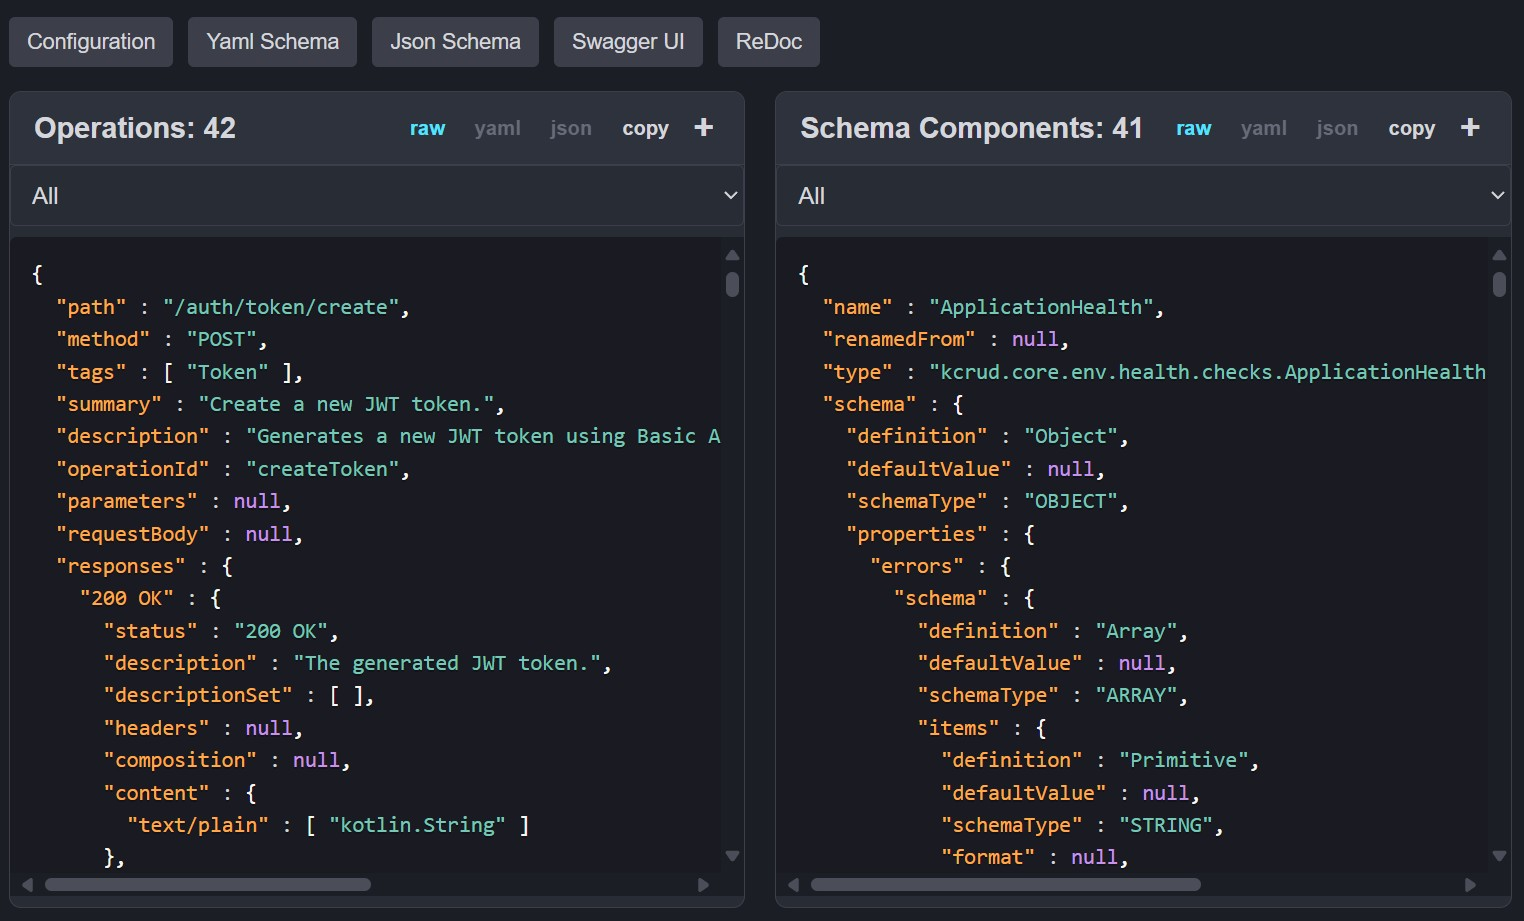
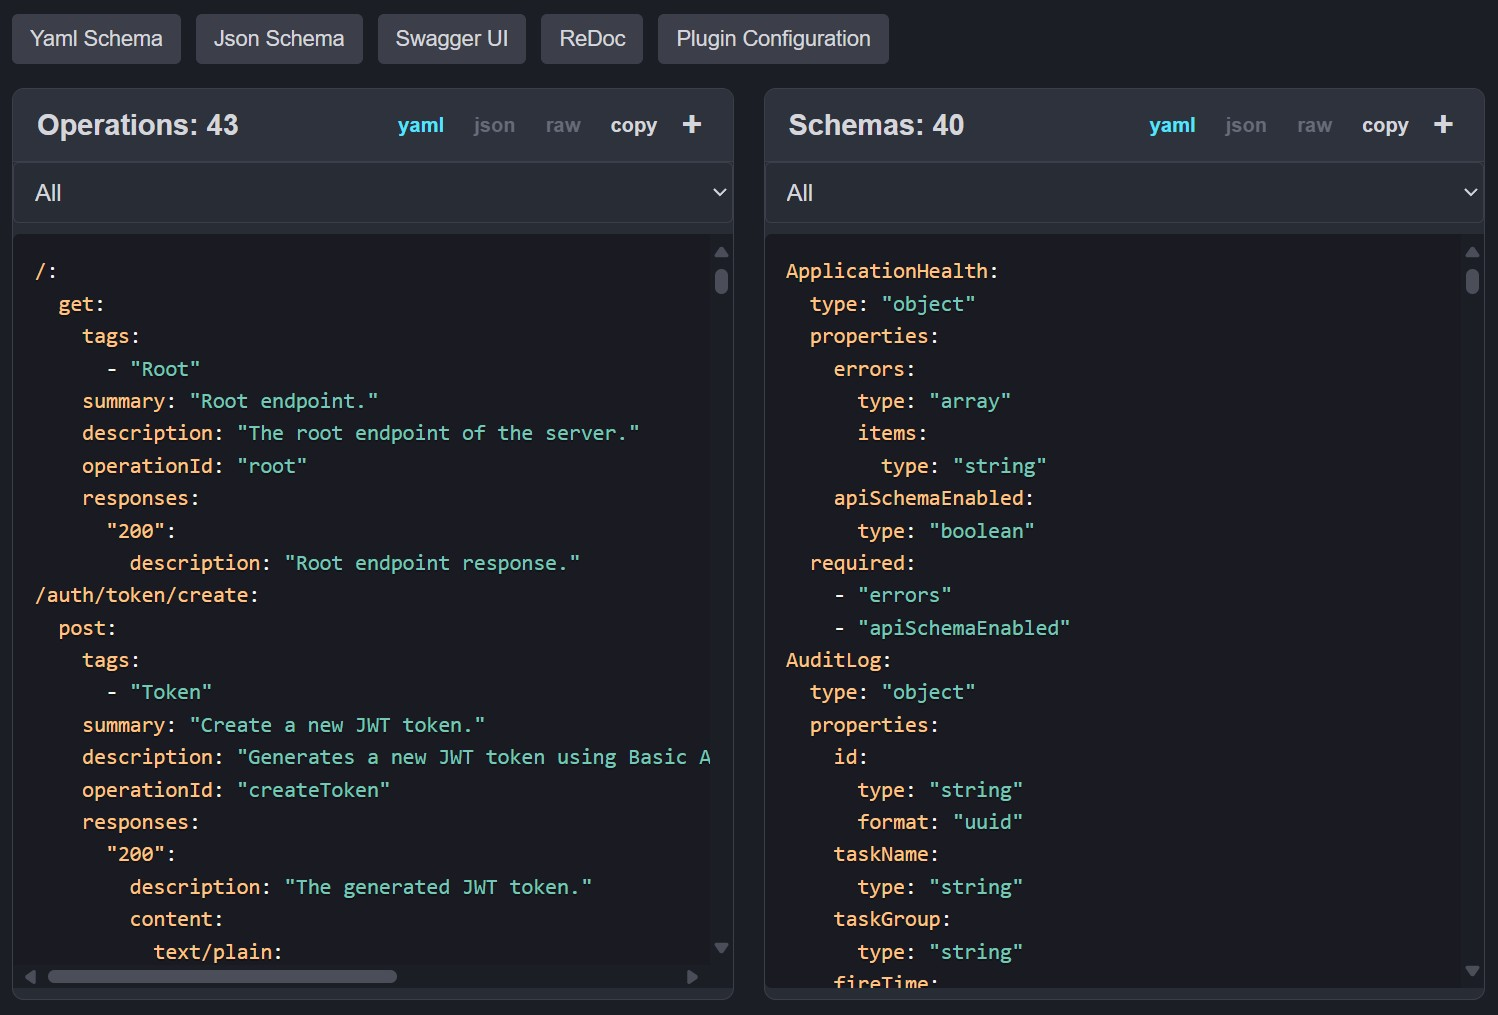
Updated docs

diff --git a/README.md b/README.md
@@ -72,9 +72,19 @@ dependencies {
   - #### [Security](./.wiki/02.6.api-usage-security.md)
 
 * ### Internals
+  - #### [Debug Panel](./.wiki/05.debug-panel.md)
   - #### [Type Conflicts](./.wiki/03.type-conflicts.md)
   - #### [Type Introspection](./.wiki/04.type-introspection.md)
-  - #### [Debug Panel](./.wiki/05.debug-panel.md)
+
+---
+
+To see the library in action, check the [Kcrud](https://github.com/perracodex/kcrud) repository:
+
+- https://github.com/perracodex/kcrud/blob/main/kcrud-core/src/main/kotlin/kcrud/core/plugins/ApiSchema.kt
+- https://github.com/perracodex/kcrud/tree/main/kcrud-employee/src/main/kotlin/kcrud/domain/employee/api
+- https://github.com/perracodex/kcrud/tree/main/kcrud-access/src/main/kotlin/kcrud/access/token/api/operate
+- https://github.com/perracodex/kcrud/tree/main/kcrud-access/src/main/kotlin/kcrud/access/rbac/api
+- https://github.com/perracodex/kcrud/tree/main/kcrud-core/src/main/kotlin/kcrud/core/scheduler/api
 
 ---
 

diff --git a/.wiki/05.debug-panel.md b/.wiki/05.debug-panel.md
@@ -1,12 +1,11 @@
 ## Debug Panel
 
-The debug panel is a feature that helps identify issues with the Schema generation.
-It is a simple `HTML` page that displays the `DSL` information gathered by the plugin,
-in its raw form before it is transformed into the OpenAPI specification.
+The debug panel is an access point to view information gathered by the plugin,
+the generated `YAML` or `JSON` OpenAPI schemas, in addition of quick access to Swagger-UI and ReDoc.
 
 ---
 
-<img src="./images/debug-main.jpg" width="1524" alt="Kopapi Debug Main">
+<img src="./images/debug-main.jpg" width="1498" alt="Kopapi Debug Main">
 
 ---
 
